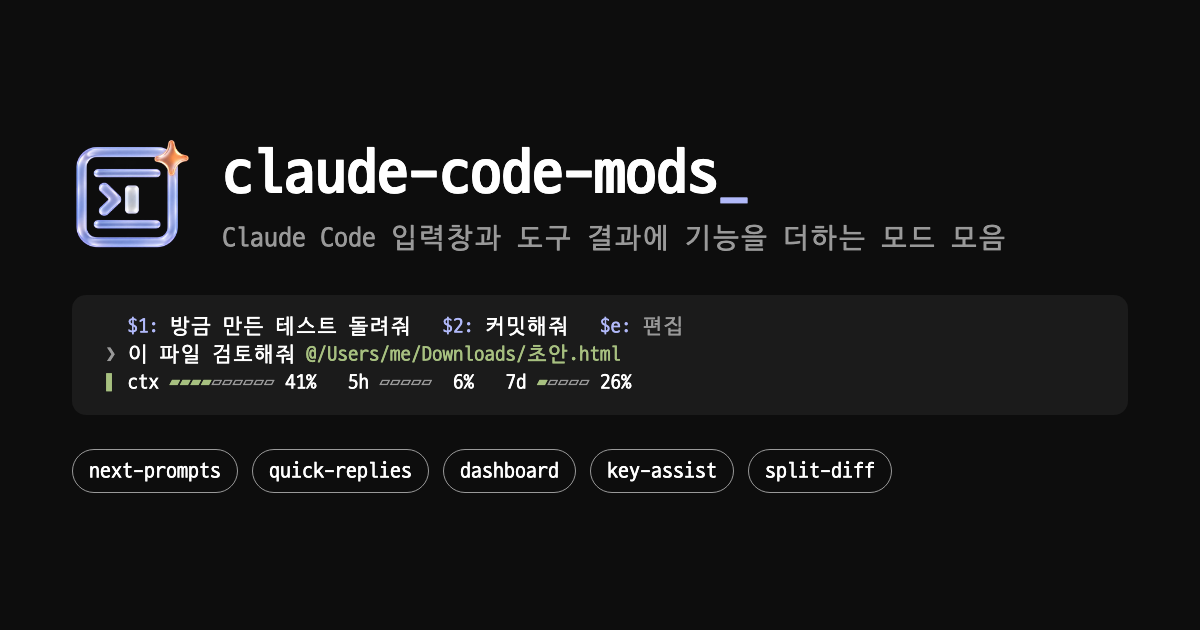
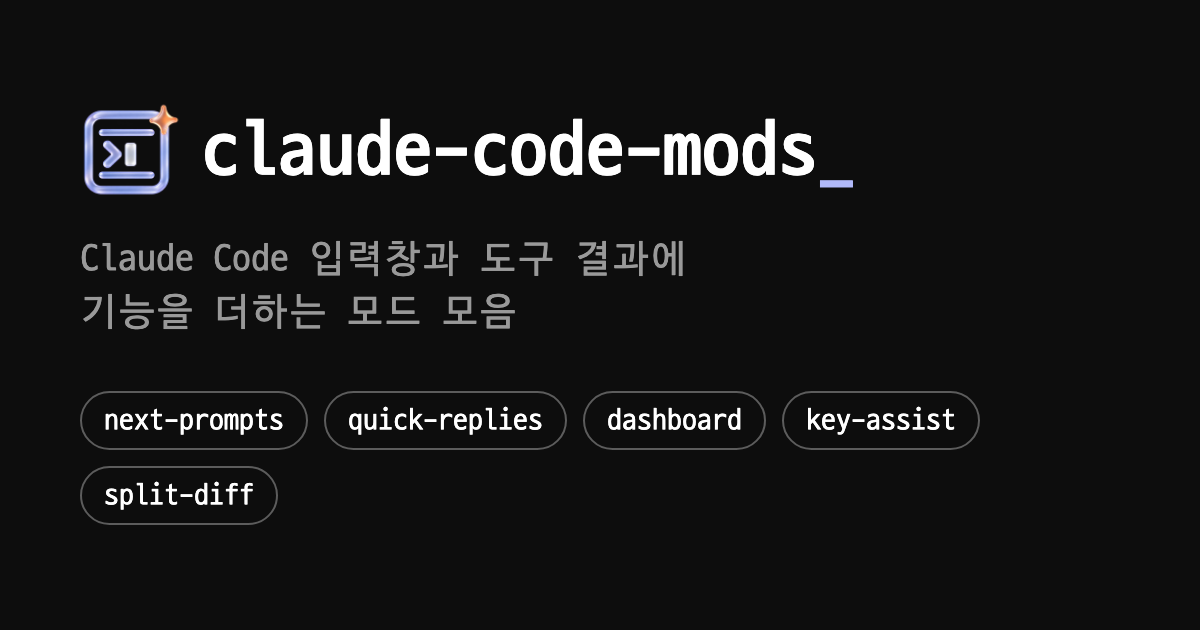
docs: OG 이미지를 페이지마다 만들고 quick-replies 장면을 프리셋으로 바꾸기
- 홈 OG 이미지를 큰 글씨로 다시 그리고, 모드 문서 5개에 모드 이름, 부제, 장면 한 컷을 담은
  OG 이미지를 따로 만들었다. 페이지마다 자기 이미지를 쓴다.
- og:title은 사이트 이름을 뺀 짧은 제목으로 바꿨다(홈은 claude-code-mods). 홈 탭 제목은
  'claude-code-mods: Claude Code 모드 모음'으로 줄였다. 문구는 ChatGPT 검토를 반영했다.
- quick-replies 카드와 문서의 장면이 next-prompts 제안을 보여 주던 것을, 프리셋만 있는 화면에서
  $1로 프리셋 문구를 불러오는 장면으로 바꿨다.

Changed region(s): [[0.0617, 0.1508, 0.8325, 0.8444]]

diff --git a/_layouts/default.html b/_layouts/default.html
@@ -7,6 +7,9 @@
   {%- assign page_title = page.seo_title | default: page.title | default: site.title -%}
   {%- if page.url == '/' -%}{%- assign full_title = page_title -%}{%- else -%}{%- capture full_title -%}{{ page_title }} | {{ site.title }}{%- endcapture -%}{%- endif -%}
   {%- assign page_desc = page.description | default: site.description -%}
+  {%- comment -%} 링크 미리보기는 좁아 사이트 이름을 뺀 제목과 페이지마다의 이미지를 쓴다. {%- endcomment -%}
+  {%- assign og_title = page.og_title | default: page_title -%}
+  {%- assign og_image = page.og_image | default: '/docs/images/og.png' -%}
   <title>{{ full_title }}</title>
   <meta name="description" content="{{ page_desc | escape }}">
   <meta name="google-site-verification" content="oKVcuvmYqUv6-Ja_2d5UnmCQNk8t-bKyKfRWtLj8_xk">
@@ -14,17 +17,17 @@
   <meta property="og:type" content="{% if page.url == '/' %}website{% else %}article{% endif %}">
   <meta property="og:site_name" content="{{ site.title }}">
   <meta property="og:locale" content="ko_KR">
-  <meta property="og:title" content="{{ full_title | escape }}">
+  <meta property="og:title" content="{{ og_title | escape }}">
   <meta property="og:description" content="{{ page_desc | escape }}">
   <meta property="og:url" content="{{ page.url | absolute_url }}">
-  <meta property="og:image" content="{{ '/docs/images/og.png' | absolute_url }}">
+  <meta property="og:image" content="{{ og_image | absolute_url }}">
   <meta property="og:image:width" content="1200">
   <meta property="og:image:height" content="630">
-  <meta property="og:image:alt" content="claude-code-mods 로고와 입력창 화면 예시">
+  <meta property="og:image:alt" content="{{ og_title | escape }} 소개 이미지">
   <meta name="twitter:card" content="summary_large_image">
-  <meta name="twitter:title" content="{{ full_title | escape }}">
+  <meta name="twitter:title" content="{{ og_title | escape }}">
   <meta name="twitter:description" content="{{ page_desc | escape }}">
-  <meta name="twitter:image" content="{{ '/docs/images/og.png' | absolute_url }}">
+  <meta name="twitter:image" content="{{ og_image | absolute_url }}">
   <meta name="theme-color" content="#ffffff" media="(prefers-color-scheme: light)">
   <meta name="theme-color" content="#050505" media="(prefers-color-scheme: dark)">
   <link rel="icon" type="image/png" href="{{ '/docs/images/favicon.png' | relative_url }}">

diff --git a/docs/quick-replies.md b/docs/quick-replies.md
@@ -5,8 +5,8 @@
 > 반복해서 입력하던 "지금 진행상황"을 `$4`처럼 짧은 번호로 불러옵니다.
 
 <p><picture>
-<source media="(prefers-color-scheme: dark)" srcset="./images/showcase/substitute-dark.gif">
-<img alt="입력창에 $2를 치면 그 자리에 2번 문구가 들어간다" src="./images/showcase/substitute-light.gif" width="560">
+<source media="(prefers-color-scheme: dark)" srcset="./images/showcase/preset-dark.gif">
+<img alt="입력창에 $1을 치면 그 자리에 1번 프리셋 문구가 들어간다" src="./images/showcase/preset-light.gif" width="560">
 </picture></p>
 
 | 항목 | 값 |
